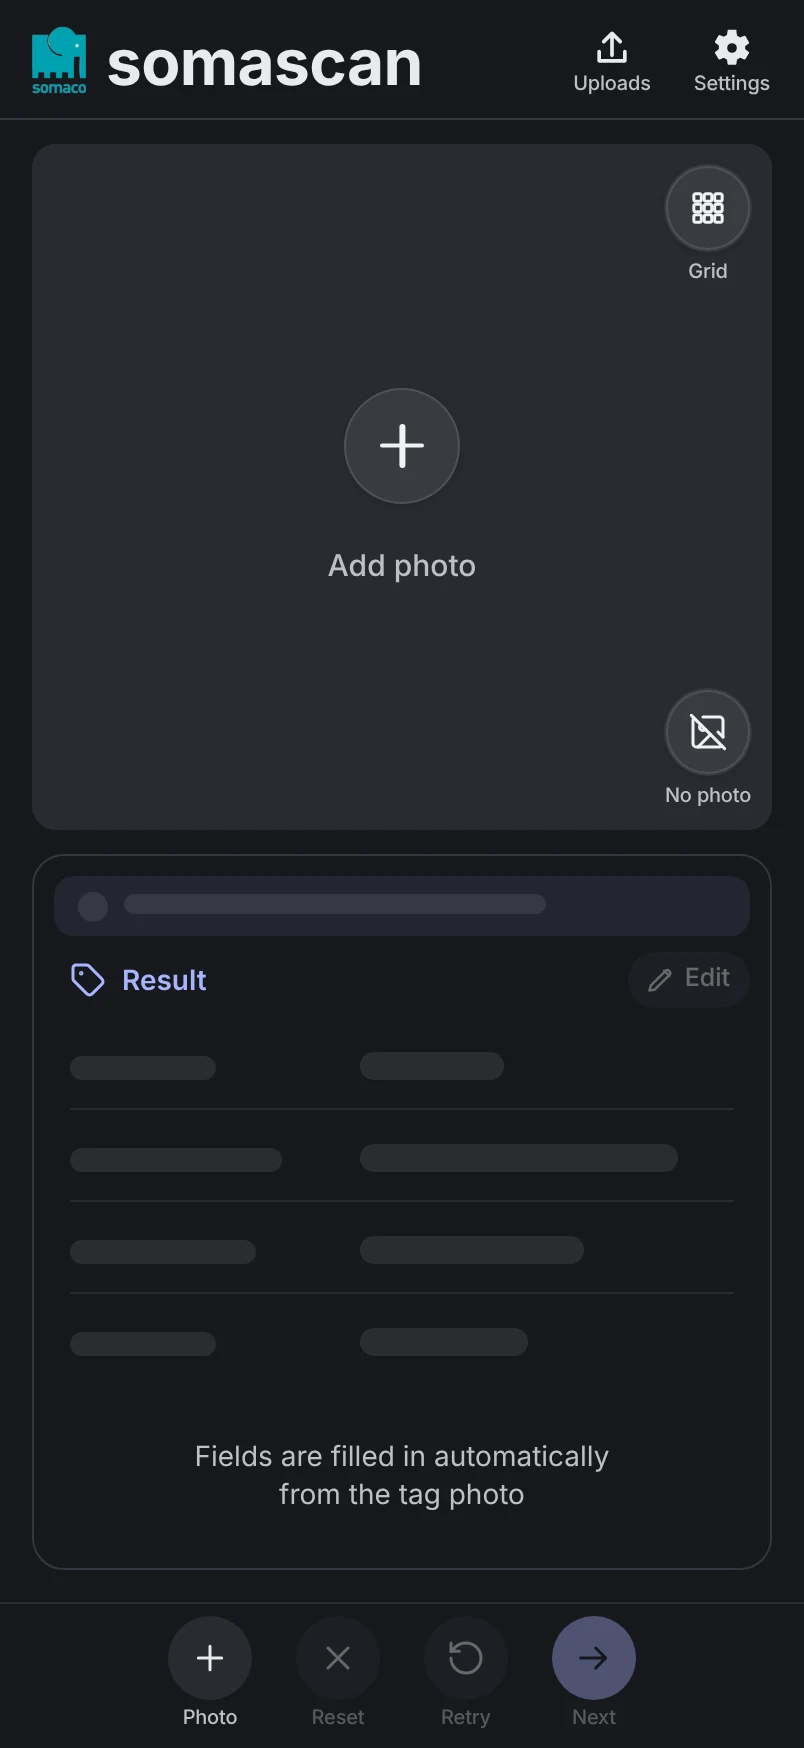
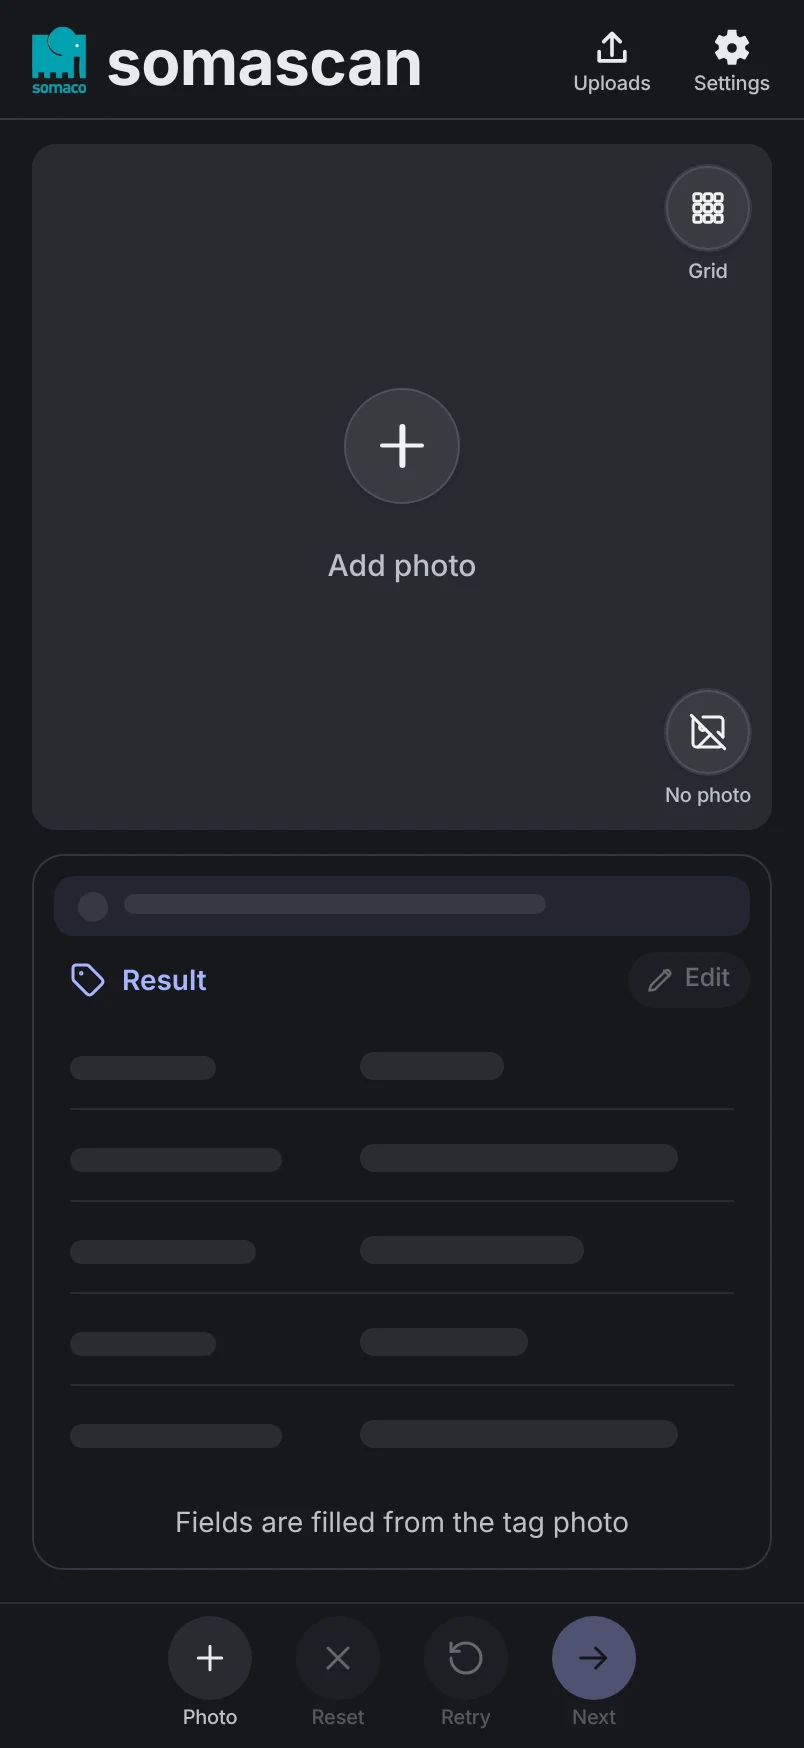
fix & docs: + result card: with the hint, the still silhouettes show as many whole rows as fit above it — all fields on the first tag, fewer on a tag with item tabs and the slide bar; the rest go into a hidden wrapped column, so the empty screen never scrolls and the hint sits at the bottom of the c

Changed region(s): [[0.2177, 0.8032, 0.7774, 0.8959]]

diff --git a/src/features/workspace/components/LabelFields.css b/src/features/workspace/components/LabelFields.css
@@ -5,6 +5,8 @@
  */
 
 .label-fields {
+  /* Разделитель строк полей (и их силуэтов). */
+  --label-field-divider: 1px solid color-mix(in srgb, var(--border) 65%, transparent);
   min-height: 0;
   flex: 1 1 auto;
   overflow-y: auto;
@@ -25,7 +27,7 @@
   align-items: baseline;
   gap: 12px;
   padding: 11px 0;
-  border-bottom: 1px solid color-mix(in srgb, var(--border) 65%, transparent);
+  border-bottom: var(--label-field-divider);
 }
 
 .label-field:last-child {
@@ -56,14 +58,39 @@
   visibility: hidden;
 }
 
-/* Подсказка под силуэтами — по центру оставшегося места карточки. */
+/*
+ * С подсказкой (`hint`): силуэты занимают место карточки над ней, подсказка — внизу. Силуэтов столько, сколько
+ * помещается целиком: список идёт в колонку с переносом, и строки, которым нет места, уходят в следующую колонку —
+ * за край, где их не видно. Карточка поэтому не растёт, и экран не прокручивается. Разделители — над строками,
+ * а не под ними: под последней видимой строкой линии нет.
+ */
 .label-fields.is-skeleton.has-hint {
   display: flex;
   flex-direction: column;
 }
 
+.label-fields.is-skeleton.has-hint > .label-fields-list {
+  display: flex;
+  min-height: 0;
+  flex: 1 1 0;
+  flex-flow: column wrap;
+  align-content: flex-start;
+  overflow: hidden;
+}
+
+.label-fields.is-skeleton.has-hint .label-field {
+  width: 100%;
+  flex: none;
+  border-top: var(--label-field-divider);
+  border-bottom: 0;
+}
+
+.label-fields.is-skeleton.has-hint .label-field:first-child {
+  border-top: 0;
+}
+
 .label-fields-hint {
-  margin: auto 0;
+  margin: 0;
   padding: 12px 0 4px;
   color: var(--text);
   font-size: 14px;

diff --git a/src/features/workspace/components/LabelFields.tsx b/src/features/workspace/components/LabelFields.tsx
@@ -57,7 +57,10 @@ export interface LabelFieldsSkeletonProps {
   label: string
   /** Ничего не грузится (фото ещё нет): силуэты ровные, без переливания. */
   still?: boolean
-  /** Подсказка под силуэтами (видна; диктор читает `label`): она занимает место последней строки. */
+  /**
+   * Подсказка под силуэтами (видна; диктор читает `label`). С ней силуэтов столько, сколько помещается над ней
+   * в карточке: экран не прокручивается.
+   */
   hint?: string
 }
 
@@ -87,9 +90,7 @@ function SkeletonRow({ dropdown = false }: { dropdown?: boolean }) {
  */
 export function LabelFieldsSkeleton({ label, still = false, hint }: LabelFieldsSkeletonProps) {
   const { advanced } = useSettings()
-  const enabled = enabledLabelFields(advanced.labelFields)
-  // С подсказкой — на строку меньше: карточка не выше, чем без неё, и экран не прокручивается.
-  const fields = hint ? enabled.slice(0, -1) : enabled
+  const fields = enabledLabelFields(advanced.labelFields)
   return (
     <div className={`label-fields is-skeleton anim-fade${still ? ' is-still' : ''}${hint ? ' has-hint' : ''}`} role="status" aria-label={label}>
       <div className="label-fields-list" aria-hidden="true">
